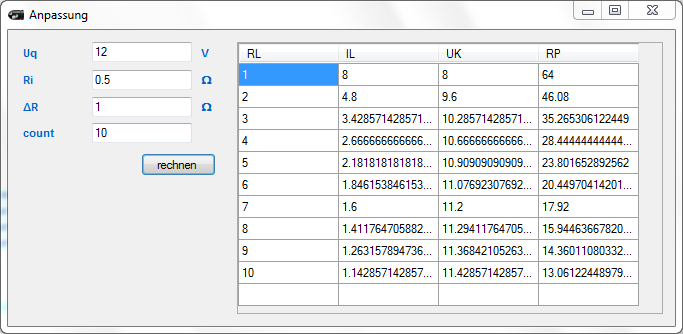
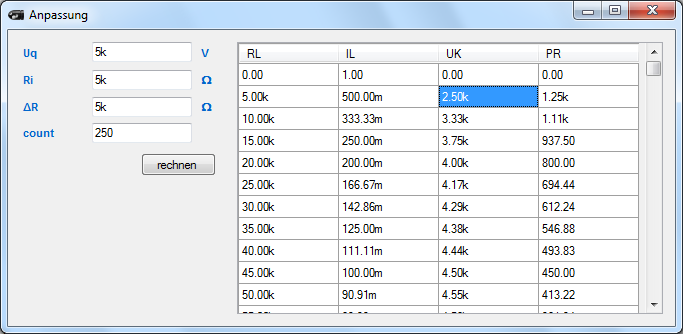
Fixed engineering parser and added engineering parsing

diff --git a/Anpassung/Form1.cs b/Anpassung/Form1.cs
@@ -13,6 +13,10 @@ namespace hunkeler_aufgabe_2
     {
         Anpassung anpassung = new Anpassung();
         Engineering engineering = new Engineering();
+        Engineering loadr = new Engineering();
+        Engineering loadi = new Engineering();
+        Engineering voltagek = new Engineering();
+        Engineering powerr = new Engineering();
 
         public Form1()
         {
@@ -33,25 +37,31 @@ namespace hunkeler_aufgabe_2
                     dataGridView1.Rows.RemoveAt(0);
                 }
 
-                
-                anpassung.setUq(Convert.ToDouble(textBox1.Text));
+                engineering.setEngineering(textBox1.Text);
+                anpassung.setUq(engineering.getValue());
 
                 engineering.setEngineering(textBox2.Text);
                 anpassung.setRi(engineering.getValue());
 
                 engineering.setEngineering(textBox3.Text);
                 anpassung.setDeltaR(engineering.getValue());
-                
+
                 anpassung.setNumbers(Convert.ToInt32(textBox4.Text));
 
 
                 for (int y = 0; y <= anpassung.getNumbers(); y++)
                 {
                     anpassung.setValue(y);
-                    dataGridView1.Rows.Add( anpassung.getRl().ToString("0.00"),
-                                            anpassung.getIl().ToString("0.00"),
-                                            anpassung.getUk().ToString("0.00"),
-                                            anpassung.getPl().ToString("0.00") );
+
+                    loadr.setValue(anpassung.getRl());
+                    loadi.setValue(anpassung.getIl());
+                    voltagek.setValue(anpassung.getUk());
+                    powerr.setValue(anpassung.getPl());
+
+                    dataGridView1.Rows.Add( loadr.getEngineering(),
+                                            loadi.getEngineering(),
+                                            voltagek.getEngineering(),
+                                            powerr.getEngineering() );
                 }
             }
             catch (Exception)
@@ -188,56 +198,63 @@ namespace hunkeler_aufgabe_2
             string buffer;
             double number_buffer;
 
-            if ((this.value > Math.Pow(10, -15)) && (this.value < Math.Pow(10, -12)))
+            if ((this.value >= Math.Pow(10, -15)) && (this.value < Math.Pow(10, -12)))
             {
                 number_buffer = this.value / Math.Pow(10, -15);
                 buffer = number_buffer.ToString("0.00");
 
                 return buffer + "f";
             }
-            else if ((this.value > Math.Pow(10, -12)) && (this.value < Math.Pow(10, -9)))
+            else if ((this.value >= Math.Pow(10, -12)) && (this.value < Math.Pow(10, -9)))
             {
                 number_buffer = this.value / Math.Pow(10, -12);
                 buffer = number_buffer.ToString("0.00");
 
                 return buffer + "p";
             }
-            else if ((this.value > Math.Pow(10, -9)) && (this.value < Math.Pow(10, -6)))
+            else if ((this.value >= Math.Pow(10, -9)) && (this.value < Math.Pow(10, -6)))
             {
                 number_buffer = this.value / Math.Pow(10, -9);
                 buffer = number_buffer.ToString("0.00");
 
                 return buffer + "n";
             }
-            else if ((this.value > Math.Pow(10, -6)) && (this.value < Math.Pow(10, -3)))
+            else if ((this.value >= Math.Pow(10, -6)) && (this.value < Math.Pow(10, -3)))
             {
                 number_buffer = this.value / Math.Pow(10, -6);
                 buffer = number_buffer.ToString("0.00");
 
                 return buffer + "u";
             }
-            else if ((this.value > Math.Pow(10, -3)) && (this.value < Math.Pow(10, 3)))
+            else if ((this.value >= Math.Pow(10, -3)) && (this.value < Math.Pow(10, 0)))
             {
                 number_buffer = this.value / Math.Pow(10, -3);
                 buffer = number_buffer.ToString("0.00");
 
                 return buffer + "m";
             }
-            else if ((this.value > Math.Pow(10, 3)) && (this.value < Math.Pow(10, 6)))
+            else if ((this.value >= Math.Pow(10, 0)) && (this.value < Math.Pow(10, 3)))
+            {
+                number_buffer = this.value;
+                buffer = number_buffer.ToString("0.00");
+
+                return buffer;
+            }
+            else if ((this.value >= Math.Pow(10, 3)) && (this.value < Math.Pow(10, 6)))
             {
                 number_buffer = this.value / Math.Pow(10, 3);
                 buffer = number_buffer.ToString("0.00");
 
                 return buffer + "k";
             }
-            else if ((this.value > Math.Pow(10, 6)) && (this.value < Math.Pow(10, 9)))
+            else if ((this.value >= Math.Pow(10, 6)) && (this.value < Math.Pow(10, 9)))
             {
                 number_buffer = this.value / Math.Pow(10, 6);
                 buffer = number_buffer.ToString("0.00");
 
                 return buffer + "M";
             }
-            else if ((this.value > Math.Pow(10, 9)) && (this.value < Math.Pow(10, 12)))
+            else if ((this.value >= Math.Pow(10, 9)) && (this.value < Math.Pow(10, 12)))
             {
                 number_buffer = this.value / Math.Pow(10, 9);
                 buffer = number_buffer.ToString("0.00");
@@ -245,7 +262,8 @@ namespace hunkeler_aufgabe_2
                 return buffer + "G";
             }
 
-            return "";
+            // In case of error return raw string value
+            return this.value.ToString("0.00");
         }
     }
 }

diff --git a/Anpassung/Form1.Designer.cs b/Anpassung/Form1.Designer.cs
@@ -39,14 +39,14 @@
             this.label5 = new System.Windows.Forms.Label();
             this.button1 = new System.Windows.Forms.Button();
             this.dataGridView1 = new System.Windows.Forms.DataGridView();
-            this.rl = new System.Windows.Forms.DataGridViewTextBoxColumn();
-            this.il = new System.Windows.Forms.DataGridViewTextBoxColumn();
-            this.uk = new System.Windows.Forms.DataGridViewTextBoxColumn();
-            this.rp = new System.Windows.Forms.DataGridViewTextBoxColumn();
             this.label8 = new System.Windows.Forms.Label();
             this.textBox4 = new System.Windows.Forms.TextBox();
             this.label6 = new System.Windows.Forms.Label();
             this.label7 = new System.Windows.Forms.Label();
+            this.rl = new System.Windows.Forms.DataGridViewTextBoxColumn();
+            this.il = new System.Windows.Forms.DataGridViewTextBoxColumn();
+            this.uk = new System.Windows.Forms.DataGridViewTextBoxColumn();
+            this.rp = new System.Windows.Forms.DataGridViewTextBoxColumn();
             ((System.ComponentModel.ISupportInitialize)(this.dataGridView1)).BeginInit();
             this.SuspendLayout();
             // 
@@ -155,30 +155,6 @@
             this.dataGridView1.Size = new System.Drawing.Size(426, 272);
             this.dataGridView1.TabIndex = 10;
             // 
-            // rl
-            // 
-            this.rl.HeaderText = "RL";
-            this.rl.Name = "rl";
-            this.rl.ReadOnly = true;
-            // 
-            // il
-            // 
-            this.il.HeaderText = "IL";
-            this.il.Name = "il";
-            this.il.ReadOnly = true;
-            // 
-            // uk
-            // 
-            this.uk.HeaderText = "UK";
-            this.uk.Name = "uk";
-            this.uk.ReadOnly = true;
-            // 
-            // rp
-            // 
-            this.rp.HeaderText = "RP";
-            this.rp.Name = "rp";
-            this.rp.ReadOnly = true;
-            // 
             // label8
             // 
             this.label8.AutoSize = true;
@@ -215,6 +191,30 @@
             this.label7.Name = "label7";
             this.label7.Size = new System.Drawing.Size(0, 13);
             this.label7.TabIndex = 14;
+            // 
+            // rl
+            // 
+            this.rl.HeaderText = "RL";
+            this.rl.Name = "rl";
+            this.rl.ReadOnly = true;
+            // 
+            // il
+            // 
+            this.il.HeaderText = "IL";
+            this.il.Name = "il";
+            this.il.ReadOnly = true;
+            // 
+            // uk
+            // 
+            this.uk.HeaderText = "UK";
+            this.uk.Name = "uk";
+            this.uk.ReadOnly = true;
+            // 
+            // rp
+            // 
+            this.rp.HeaderText = "PR";
+            this.rp.Name = "rp";
+            this.rp.ReadOnly = true;
             // 
             // Form1
             // 
@@ -257,14 +257,14 @@
         private System.Windows.Forms.Label label5;
         private System.Windows.Forms.Button button1;
         private System.Windows.Forms.DataGridView dataGridView1;
-        private System.Windows.Forms.DataGridViewTextBoxColumn rl;
-        private System.Windows.Forms.DataGridViewTextBoxColumn il;
-        private System.Windows.Forms.DataGridViewTextBoxColumn uk;
-        private System.Windows.Forms.DataGridViewTextBoxColumn rp;
         private System.Windows.Forms.Label label8;
         private System.Windows.Forms.TextBox textBox4;
         private System.Windows.Forms.Label label6;
         private System.Windows.Forms.Label label7;
+        private System.Windows.Forms.DataGridViewTextBoxColumn rl;
+        private System.Windows.Forms.DataGridViewTextBoxColumn il;
+        private System.Windows.Forms.DataGridViewTextBoxColumn uk;
+        private System.Windows.Forms.DataGridViewTextBoxColumn rp;
     }
 }
 
